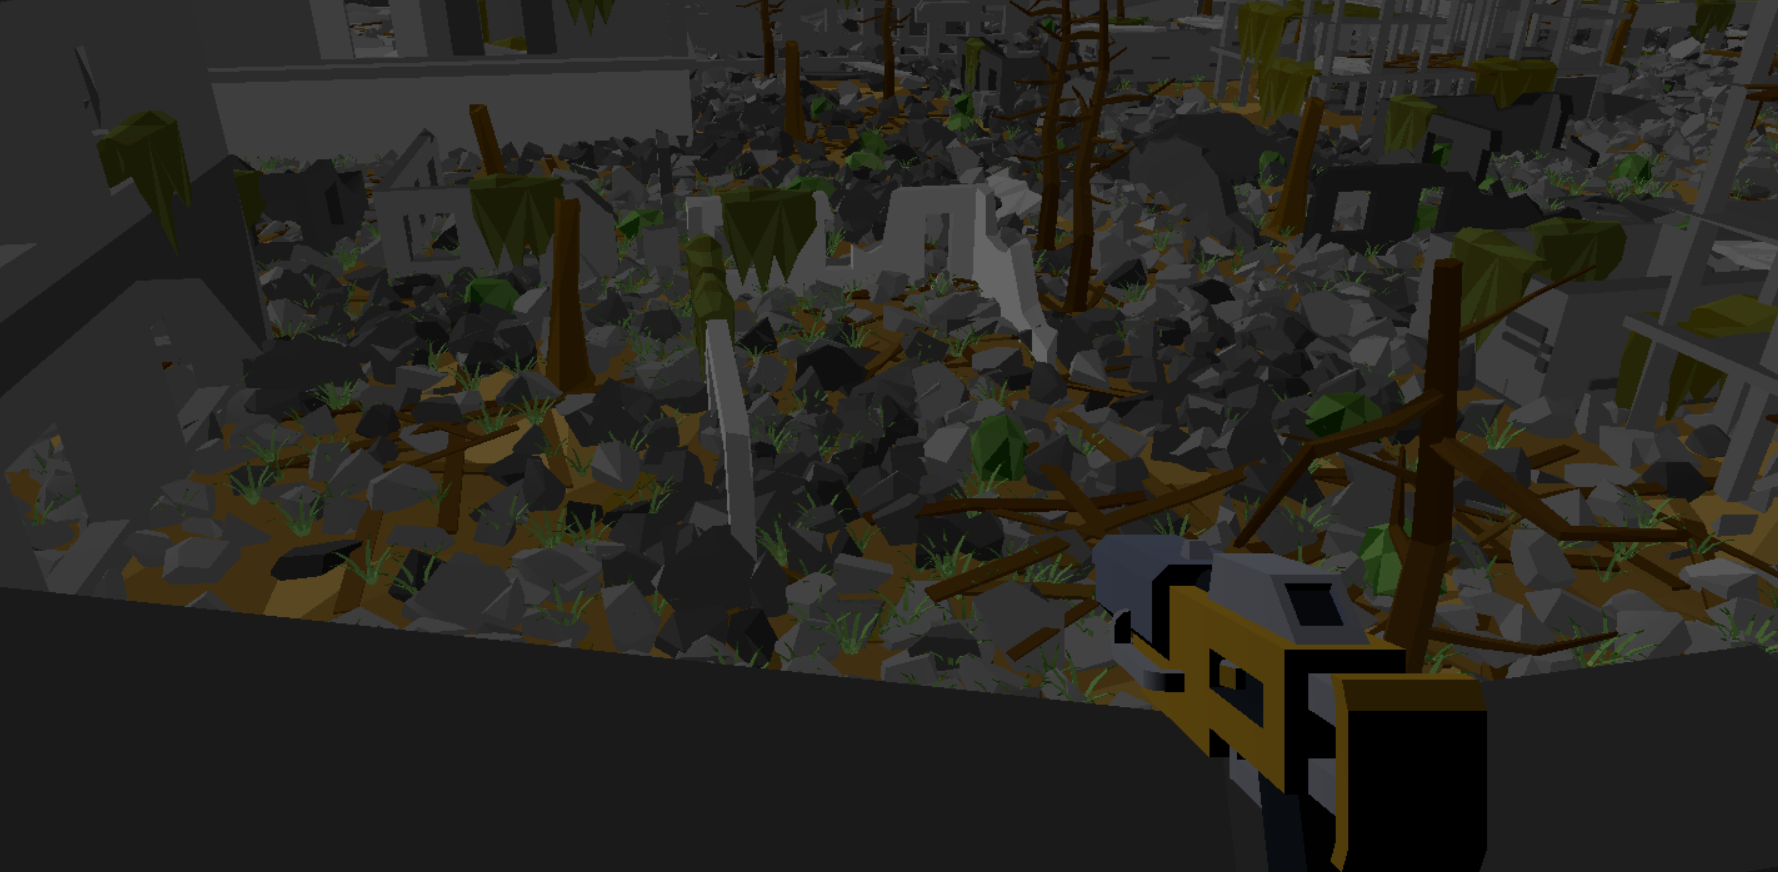
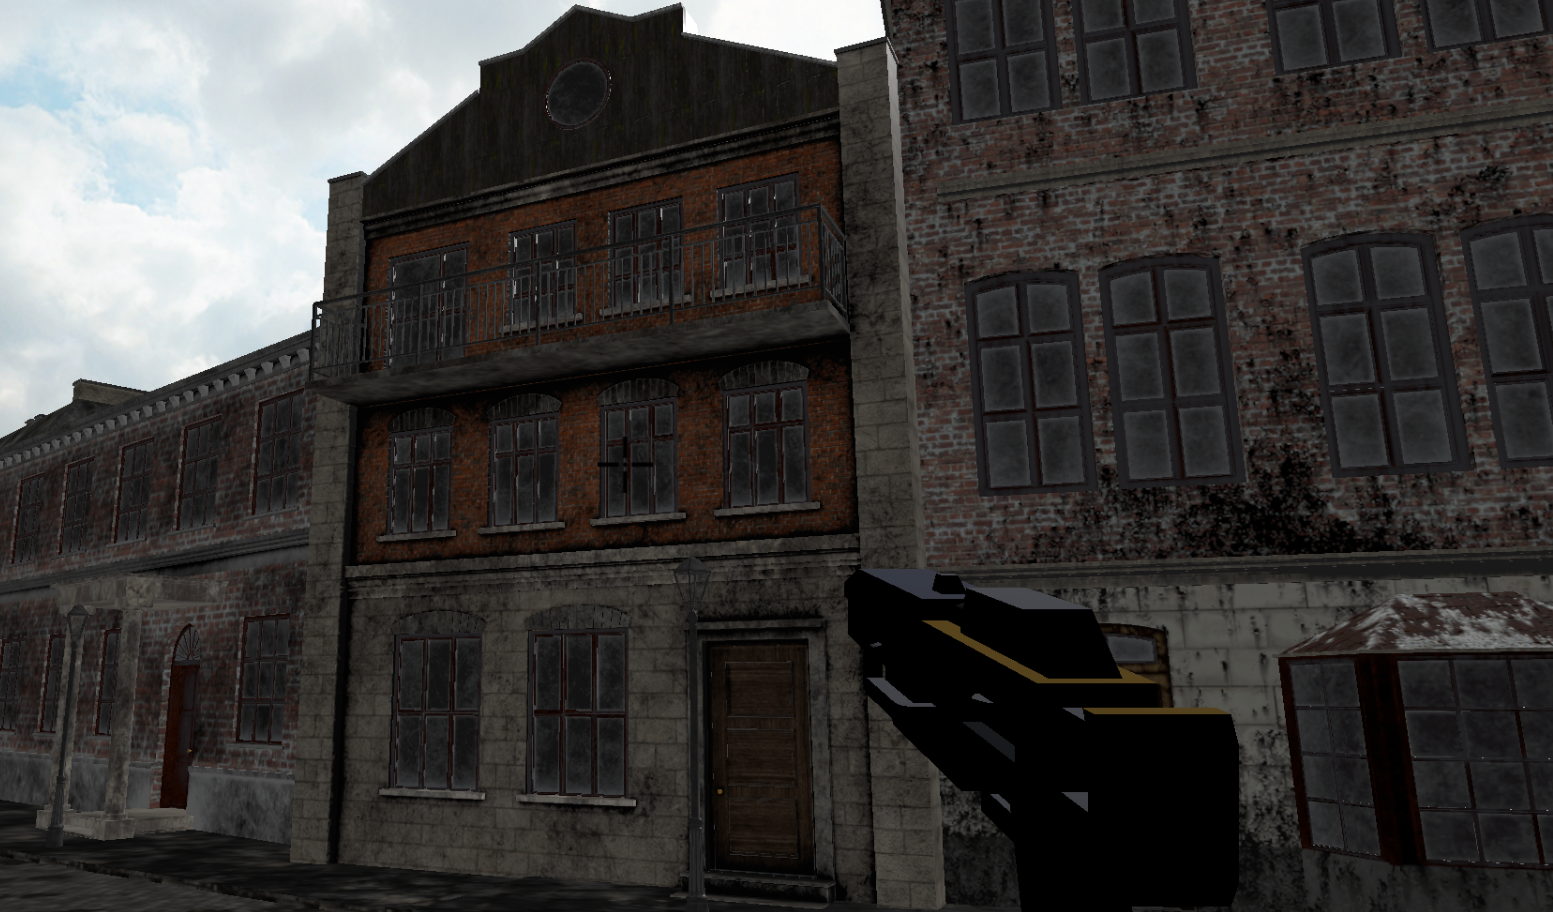
Timer fixed + background update

diff --git a/src/GameMenu/script.js b/src/GameMenu/script.js
@@ -99,7 +99,6 @@
     
     if (isGamePaused && gameModule) {
       // Resume the game if it's paused
-      gameModule.resumeGame();
       isGamePaused = false;
       console.log("Game resumed!");
     } else if (!gameStarted) {
@@ -125,7 +124,6 @@
     intro.style.display = "flex";
     playIntroSound(); // Play sound when showing the intro or pause menu
     if (gameModule && !isGamePaused) {
-      gameModule.pauseGame();
       isGamePaused = true;
       console.log("Game paused/showing menu.");
     }
@@ -137,7 +135,6 @@
     intro.style.display = "none"; // Hide intro if visible
     playIntroSound(); // Play sound when showing the game over screen
     if (gameModule && !isGamePaused) {
-      gameModule.pauseGame(); // Pause the game when showing game over
       isGamePaused = true;
       console.log("Game paused, showing game over screen.");
     }
@@ -148,7 +145,6 @@
     intro.style.display = "none"; // Hide intro if visible
     playIntroSound(); // Play sound when showing the game over screen
     if (gameModule && !isGamePaused) {
-      gameModule.pauseGame(); // Pause the game when showing game over
       isGamePaused = true;
       console.log("Game paused, showing game over screen.");
     }
@@ -185,11 +181,7 @@
   // Event listener for pressing 'ESC' to toggle between pause and resume
   document.addEventListener("keydown", (event) => {
     if (event.key === "Escape") {
-      if (isGamePaused) {
-        startGame(); // Resume the game if it was paused
-      } else {
         showMenu(); // Pause the game if it was running
-      }
     }
   });
 

diff --git a/src/scenes/setup/gameUI.js b/src/scenes/setup/gameUI.js
@@ -25,11 +25,9 @@ export class GameUI {
       // Listen for the ESC key to toggle pause/resume
       document.addEventListener('keydown', (event) => {
           if (event.key === 'Escape') {
-              if (this.isPaused) {
-                  this.startButton.addEventListener('click', () => this.resumeTimer());
-              } else {
-                  this.pauseTimer();
-              }
+            this.pauseTimer();
+          } else {
+            this.resumeTimer();
           }
       });
   }

diff --git a/src/scenes/setup/StartupScene.js b/src/scenes/setup/StartupScene.js
@@ -15,6 +15,7 @@ import Events from "../../Events.js";
 
 THREE.Mesh.prototype.raycast = acceleratedRaycast;
 
+const canvas = document.getElementById("Main-Canvas");
 
 export default class StartupScene extends Scene {
   constructor(camera, renderer) {
@@ -32,6 +33,8 @@ export default class StartupScene extends Scene {
     this.setupEventListeners();
     this.setupSkybox();
     this.setupLightningAbovePlayer();
+
+    canvas.requestPointerLock();
   }
 
   initializeScene(camera, renderer) {

diff --git a/src/Events.js b/src/Events.js
@@ -1,4 +1,4 @@
-const canvas = document.getElementById("Main-Canvas");
+// const canvas = document.getElementById("Main-Canvas");
 // canvas.addEventListener('contextmenu', (event) => {
 //     event.preventDefault(); // Disable the right-click menu
 // });
@@ -147,7 +147,7 @@ class EventManager {
       return;
     }
 
-    canvas.requestPointerLock();
+    // canvas.requestPointerLock();
     event.preventDefault();
 
     this.m_MouseButtons[MOUSE.ANY].m_Value = true;

diff --git a/index.html b/index.html
@@ -4,8 +4,9 @@
     <meta charset="UTF-8" />
     <meta name="viewport" content="width=device-width, initial-scale=1.0" />
     <title>CGV Project</title>
-    <link rel="stylesheet" href="style.css" />
     <link rel="stylesheet" href="./src/GameMenu/style.css">
+    <link rel="stylesheet" href="style.css" />
+    
 
     <style>
       /* Loading screen styles */
